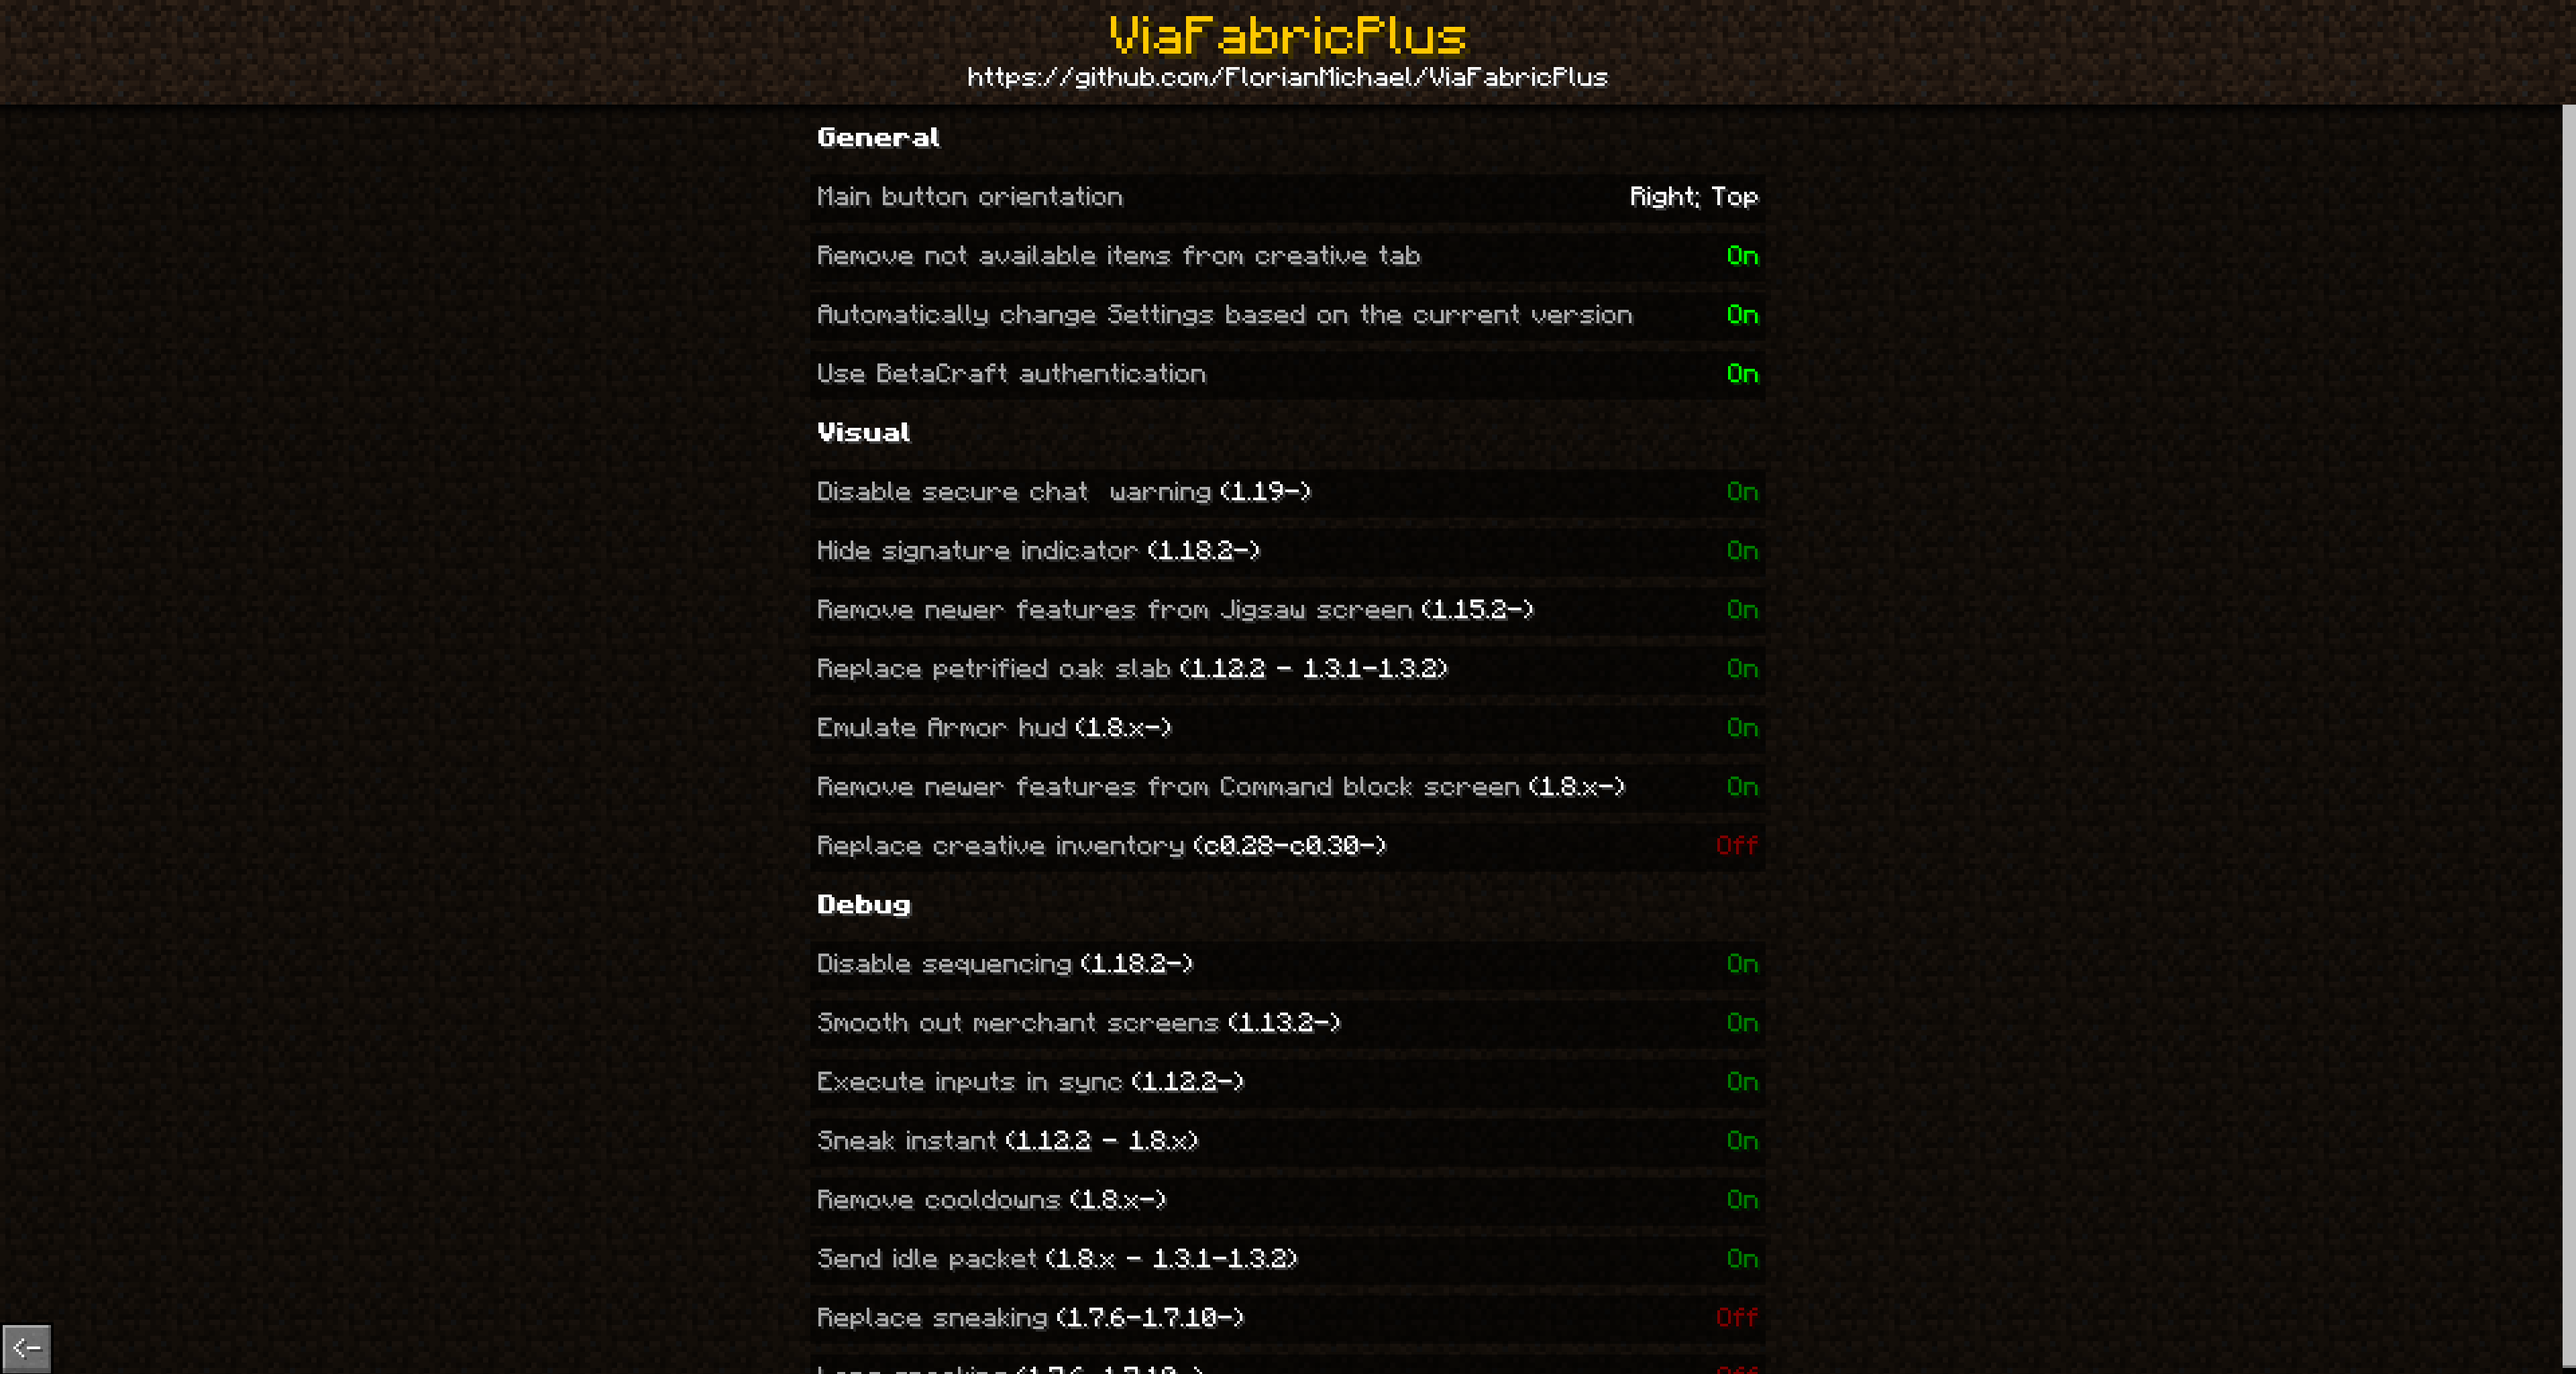
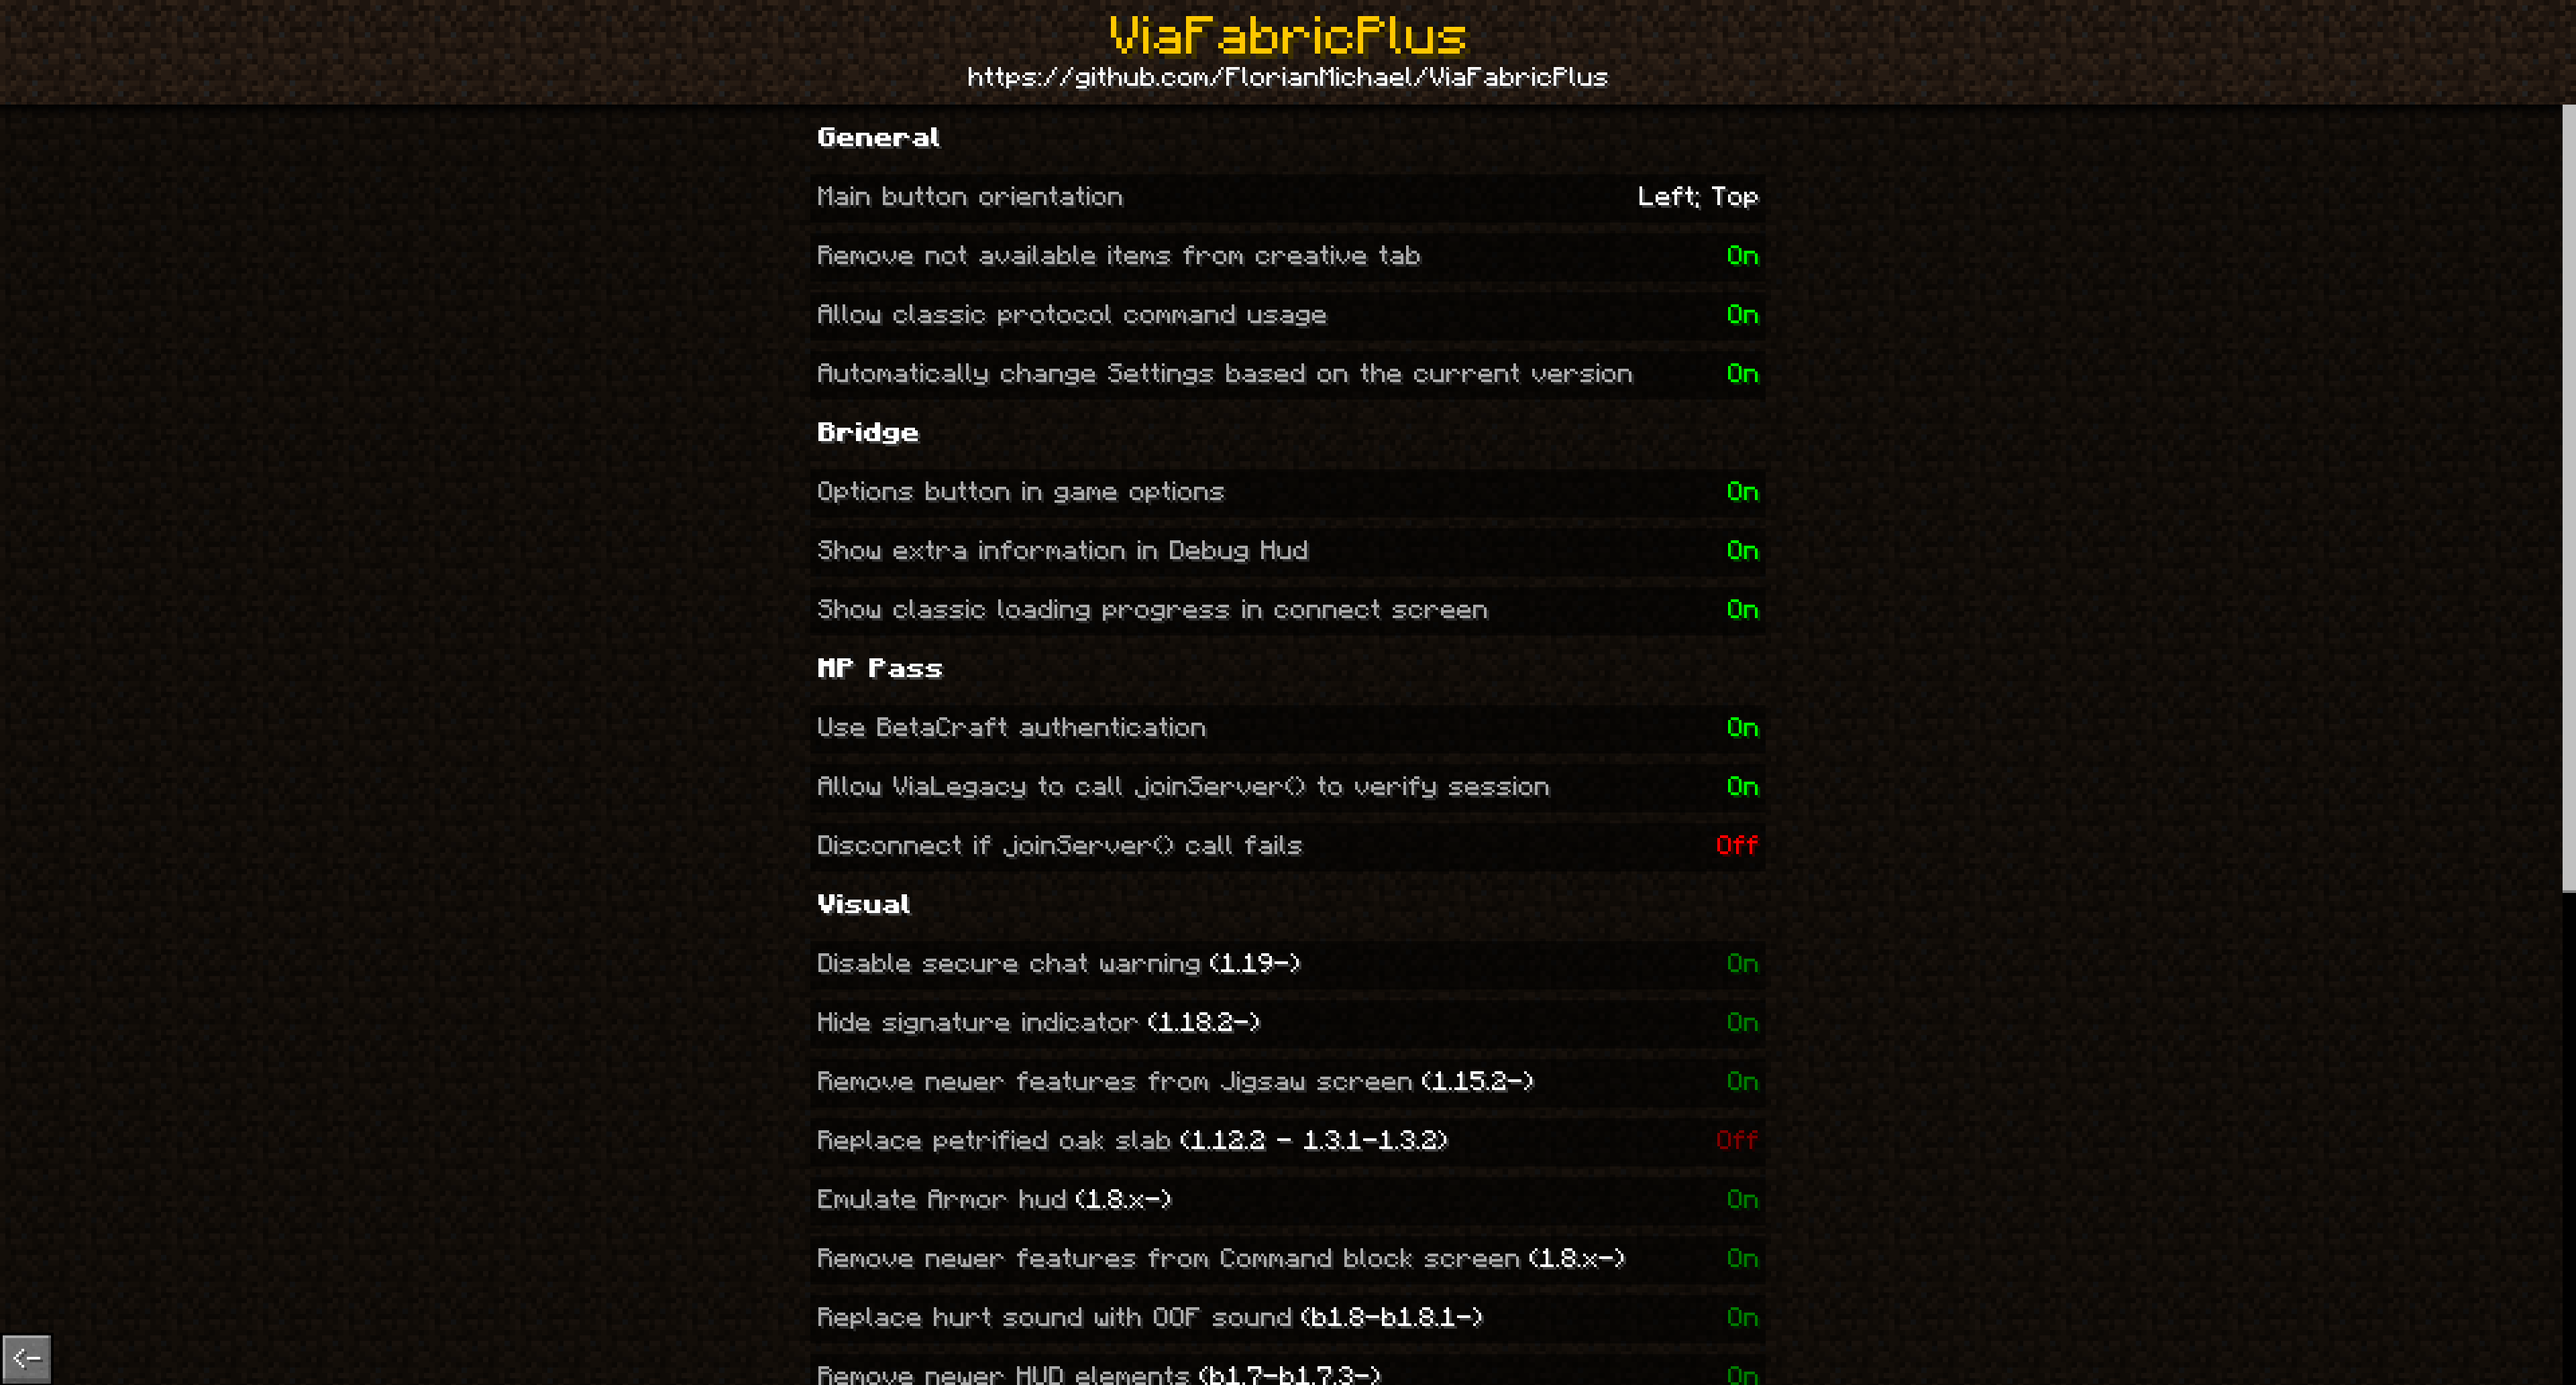
updated README

diff --git a/README.md b/README.md
@@ -2,11 +2,26 @@
 Clientside ViaVersion, ViaLegacy, ViaBedrock and ViaAprilFools implementation with clientside fixes for Fabric
 ### This project has nothing to do with the original ViaFabric and is therefore also not compact
 
+## Why?
+ViaFabricPlus is supposed to be an alternative to [multiconnect](https://github.com/Earthcomputer/multiconnect) that offers more compactness and more clientside improvements, <br>
+as ViaFabricPlus implements all Via platforms (ViaVersion, ViaBackwards, ViaLegacy, ViaAprilFools, ViaBedrock) and adds tons <br>
+of clientside fixes and QoL improvements like old rendering for all platforms. 
+
 ## Contact
 If you encounter any issues, please report them on the
 [issue tracker](https://github.com/FlorianMichael/ViaFabricPlus/issues).  
 If you just want to talk or need help with ViaFabricPlus feel free to join my
 [Discord](https://discord.gg/BwWhCHUKDf).
+
+## Compatibility
+ViaFabricPlus is structured to interfere with mods as little as possible.
+It should work fine with most if not all mods and modpacks.
+
+### Known incompatibilities:
+
+- ***[ViaFabric](https://github.com/ViaVersion/ViaFabric)***
+- ***[multiconnect](https://github.com/Earthcomputer/multiconnect)***
+- ***[Krypton](https://github.com/astei/krypton)***
 
 ## Basic Features
 - [x] ViaVersion implementation
@@ -43,23 +58,10 @@ If you just want to talk or need help with ViaFabricPlus feel free to join my
 - [ ] More extensions for Classic Protocol Extensions protocol
 - [ ] Window click interactions in <= 1.16.5
 
-## Custom classic protocol extensions
-- **WeatherType** extension (version **1**)
-
-## Classic protocol commands
-To better control the Classic Protocol, there are a few clientside commands, the command prefix is **/v**: <br>
-- **/vhelp** - Displays all commands, available from: **c0.28-c0.30**
-- **/vsettime <Time (Long)>** - Changes the Clientside World Time, available from: **c0.28-c0.30**
-- **/vlistextensions** - Displays all classic protocol extensions, available in: **c0.30 CPE**
-
-## Why?
-ViaFabricPlus implements ViaLegacy/ViaAprilFools clientside and adds a ton of fixes that improve the game experience, <br>
-as does [multiconnect](https://github.com/Earthcomputer/multiconnect) from Earthcomputer.
-### Important: The focus on ViaFabricPlus is on client side fixes, so reporting bugs and contributing is welcome.
-
 ## Dependencies
 | Dependency     | Download                                                   |
 |----------------|------------------------------------------------------------|
+| Fabric API     | https://github.com/fabricMC/fabric                         |
 | ViaVersion     | https://github.com/ViaVersion/ViaVersion                   |
 | ViaBackwards   | https://github.com/ViaVersion/ViaBackwards                 |
 | Snake YAML     | https://mvnrepository.com/artifact/org.yaml/snakeyaml/1.33 |
@@ -82,8 +84,19 @@ ViaFabricPlus uses Gradle, to make sure that it is installed properly you can ch
 Settings are optional settings that can turn fixes on and off, originally they were used for debugging<br>
 ![](/.github/images/settings.png)
 
+# Classic stuff
+## Custom protocol extensions
+ViaFabricPlus implements new Classic Extensions into the CPE protocol of ViaLegacy which are rather client side. <br>
+- **WeatherType** extension (version **1**)
+
+## Protocol commands
+To better control the Classic Protocol, there are a few clientside commands, the command prefix is **/v**: <br>
+- **/vhelp** - Displays all commands, available from: **c0.28-c0.30**
+- **/vsettime <Time (Long)>** - Changes the Clientside World Time, available from: **c0.28-c0.30**
+- **/vlistextensions** - Displays all classic protocol extensions, available in: **c0.30 CPE**
+
 ## Addons
-There is no real addon base, to create addons you can simply use the Fabric system, and then interact with ViaFabricPlus via the **EventDispatcher**.
+There is no real addon base, to create addons you can simply use the event system, which uses Fabric's Event-API.
 ```java
 public class ViaFabricPlusExampleAddon implements ClientModInitializer {
 
@@ -104,10 +117,10 @@ public class ViaFabricPlusExampleAddon implements ClientModInitializer {
 | InitializeSettingsCallback           | Called after the default setting groups are loaded and before the setting config is loaded |
 | LoadClassicProtocolExtensionCallback | Called when the classic server sends the protocol extensions (only in **c0.30 CPE**)       |
 | PreLoadCallback                      | Called before everything (Pre-pre load)                                                    |
-| SkipIdlePacketCallback               | In case you need an event as soon as the idle packet is skipped in the <= 1.8              |
+| SkipIdlePacketCallback               | Called as soon as the idle packet is skipped in the <= 1.8                                 |
 
 ### General API
-In case you need the release version of a material, you can do that:
+#### Get the release version of an material:
 ```java
 final ProtocolRange range = ItemReleaseVersionDefinition.INSTANCE.getItemMap().get(Items.WRITABLE_BOOK); // If an item does not appear in the item map, it has always existed
 
@@ -116,7 +129,7 @@ final ProtocolRange range = ItemReleaseVersionDefinition.INSTANCE.getItemMap().g
 // https://github.com/FlorianMichael/ViaLoadingBase
 ```
 
-To create a setting group, you can simply use the SettingGroup class:
+#### Creating own settings for the settings screen:
 ```java
 public class ExampleSettingGroup extends SettingGroup {
     public final static ExampleSettingGroup INSTANCE = new ExampleSettingGroup();
@@ -151,12 +164,9 @@ public class ExampleCommand implements ICommand {
 ```
 and then you register the command in your onLoad method:
 ```java
-// addon main [...]
-
-@Override
-public void onLoad() {
+PreLoadCallback.EVENT.register(() -> {
     ClassicProtocolCommands.commands.add(new ExampleCommand());
-}
+});
 ```
 
 #### Implementing custom classic protocol extensions:
